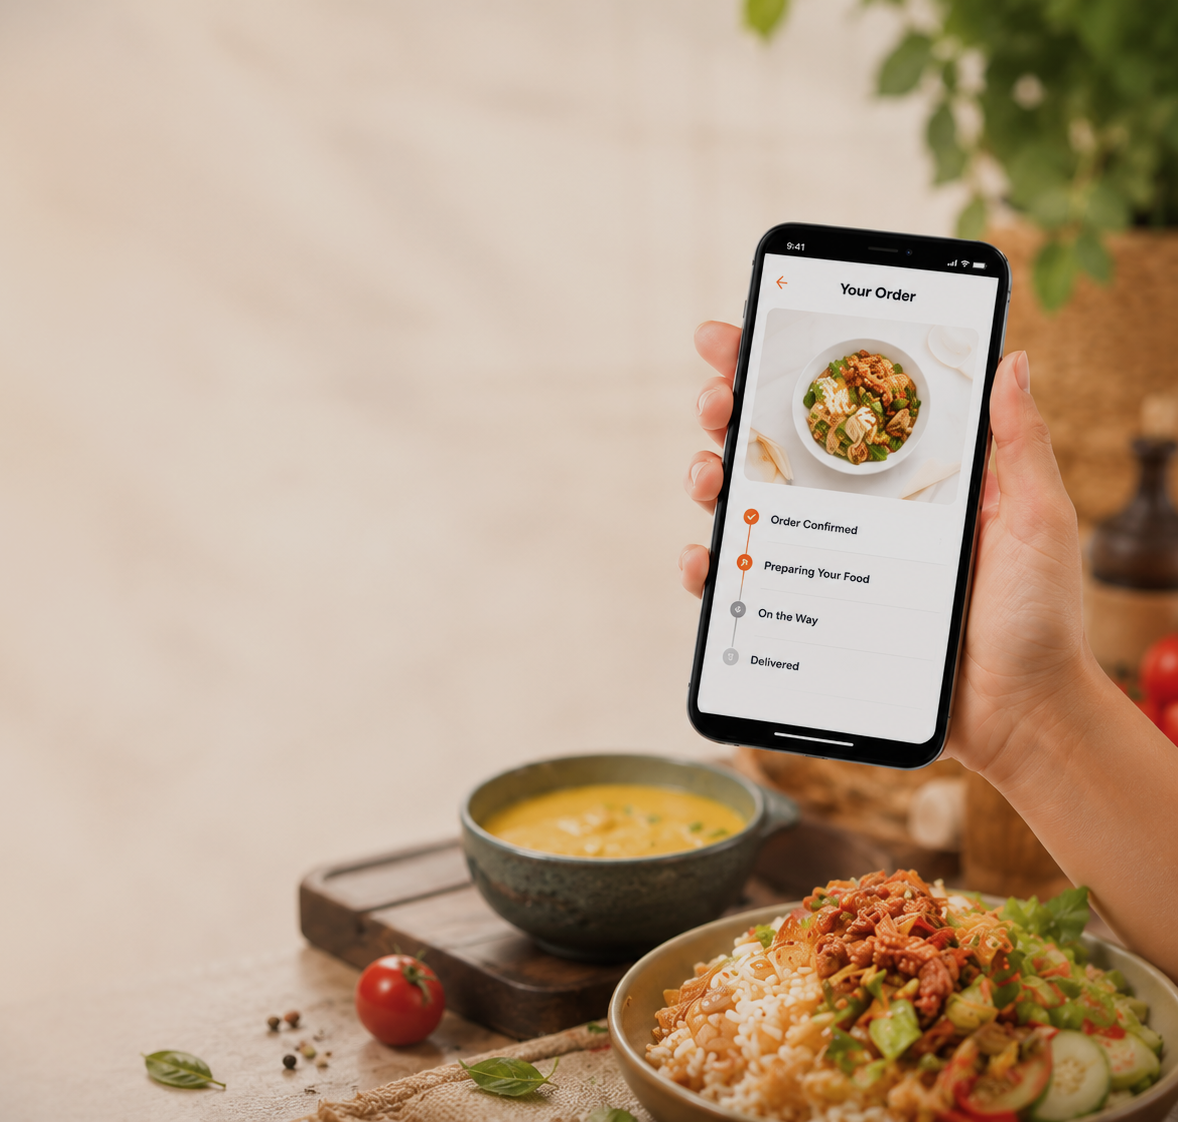
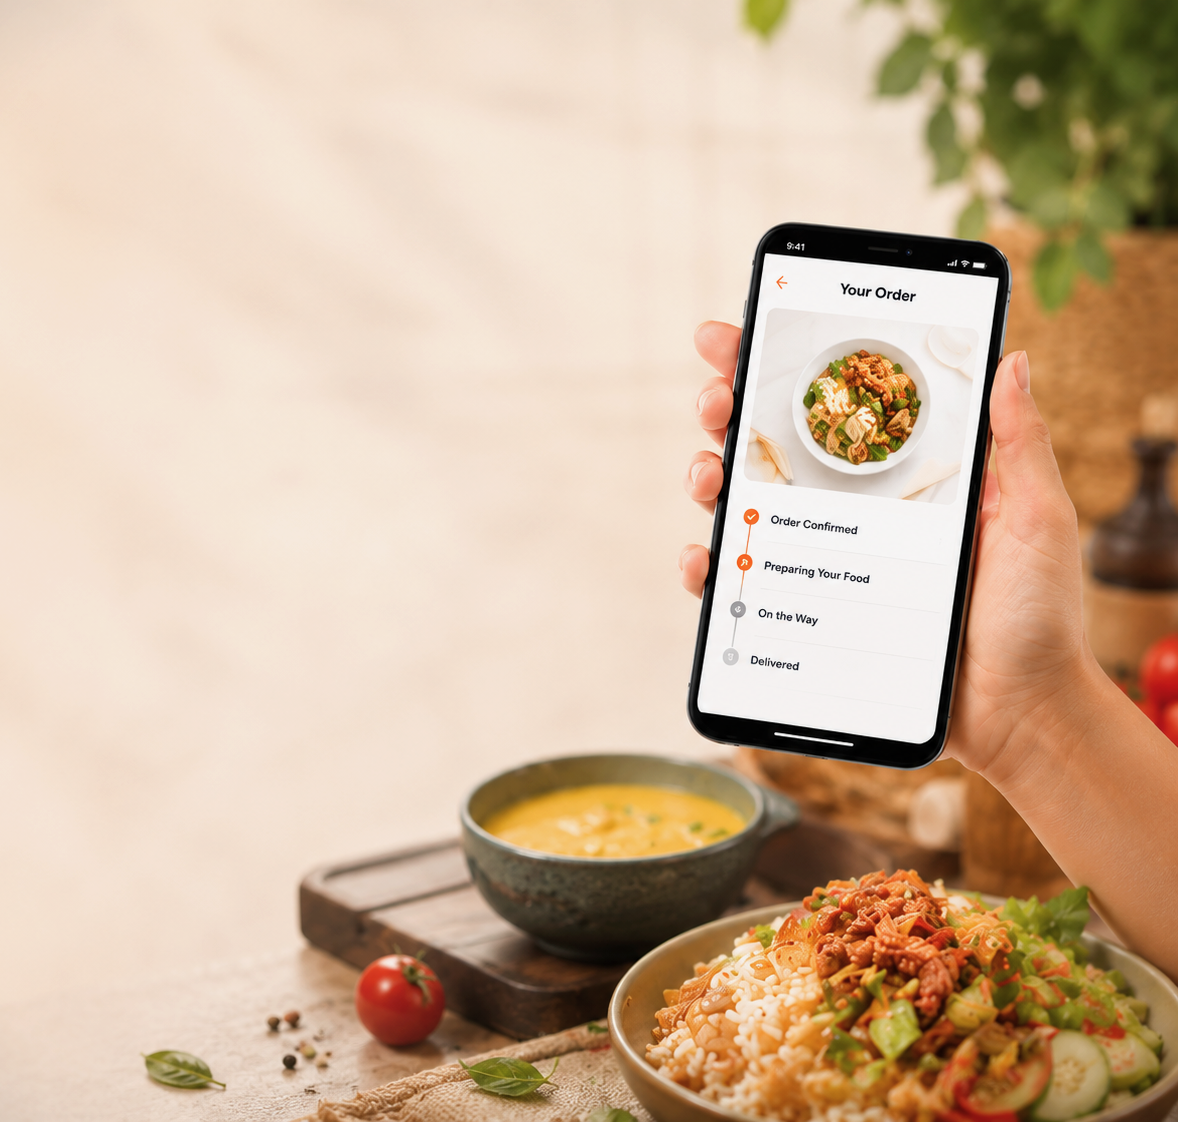
update colors design

diff --git a/frontend/src/features/auth/pages/CustomerRegisterPage.jsx b/frontend/src/features/auth/pages/CustomerRegisterPage.jsx
@@ -56,6 +56,22 @@ function CustomerRegister() {
                             </div>
                         </div>
 
+                        <div className={styles.socialAuth}>
+                            <button className={styles.socialButton}>
+                                <svg width="18" height="18" viewBox="0 0 24 24" xmlns="http://www.w3.org/2000/svg">
+                                    <path d="M22.56 12.25c0-.78-.07-1.53-.2-2.25H12v4.26h5.92c-.26 1.37-1.04 2.53-2.21 3.31v2.77h3.57c2.08-1.92 3.28-4.74 3.28-8.09z" fill="#4285F4" />
+                                    <path d="M12 23c2.97 0 5.46-.98 7.28-2.66l-3.57-2.77c-.98.66-2.23 1.06-3.71 1.06-2.86 0-5.29-1.93-6.16-4.53H2.18v2.84C3.99 20.53 7.7 23 12 23z" fill="#34A853" />
+                                    <path d="M5.84 14.09c-.22-.66-.35-1.36-.35-2.09s.13-1.43.35-2.09V7.07H2.18C1.43 8.55 1 10.22 1 12s.43 3.45 1.18 4.93l2.85-2.22.81-.62z" fill="#FBBC05" />
+                                    <path d="M12 5.38c1.62 0 3.06.56 4.21 1.64l3.15-3.15C17.45 2.09 14.97 1 12 1 7.7 1 3.99 3.47 2.18 7.07l3.66 2.84c.87-2.6 3.3-4.53 6.16-4.53z" fill="#EA4335" />
+                                </svg>
+                                Google
+                            </button>
+                        </div>
+
+                        <div className={styles.divider}>
+                            <span>Or sign up with email</span>
+                        </div>
+
                         <form onSubmit={(e) => e.preventDefault()}>
                             <div className={styles.formGrid}>
 
@@ -85,7 +101,7 @@ function CustomerRegister() {
                                         <svg width="18" height="18" viewBox="0 0 24 24" fill="none" stroke="currentColor" strokeWidth="2" strokeLinecap="round" strokeLinejoin="round" ><path d="M20 10c0 5-8 12-8 12S4 15 4 10a8 8 0 1 1 16 0z"></path><circle cx="12" cy="10" r="3"></circle>
                                         </svg>
                                     </span>
-                                    <input type="email" placeholder="Delivery Address" />
+                                    <input type="text" placeholder="Delivery Address" />
                                 </div>
 
                                 <div className={`${styles.inputGroup} ${styles.fullWidth}`}>

diff --git a/frontend/src/features/auth/pages/CustomerRegisterPage.module.css b/frontend/src/features/auth/pages/CustomerRegisterPage.module.css
@@ -2,7 +2,7 @@
 
 .container {
   min-height: 100vh;
-  background-color: var(--color-surface-active);
+  background-color: var(--color-bg);
   font-family: var(--font-family);
   color: var(--color-text-primary);
   padding: 40px 20px;
@@ -122,6 +122,7 @@
   display: flex;
   background: var(--color-surface);
   border-radius: var(--radius-xl);
+  border: 1px solid var(--color-border);
   box-shadow: var(--shadow-md);
   max-width: 1100px;
   width: 100%;
@@ -145,7 +146,6 @@
   right: -4rem;
   width: 260px;
   opacity: 0.1;
-  /* z-index: 0; */
 }
 
 .formHeader {
@@ -153,6 +153,60 @@
   align-items: center;
   gap: 16px;
   margin-bottom: 30px;
+}
+
+.socialAuth {
+  display: flex;
+  gap: 16px;
+  margin-bottom: 24px;
+}
+
+.socialButton {
+    font-family: var(--font-family);
+    flex: 1;
+    display: flex;
+    align-items: center;
+    justify-content: center;
+    gap: 8px;
+    padding: 10px;
+    background-color: var(--color-surface-hover);
+    border: 1px solid var(--color-border);
+    border-radius: 8px;
+    font-size: var(--font-size-sm);
+    font-weight: var(--font-weight-medium);
+    cursor: pointer;
+    color: var(--color-text-primary);
+    transition: background-color var(--transition-normal);
+}
+
+.socialButton:hover {
+    background-color: var(--color-hover);
+    color: var(--color-text-primary);
+}
+
+.socialButton:active {
+    background-color: var(--color-active);
+}
+
+/* Divider */
+.divider {
+    display: flex;
+    align-items: center;
+    text-align: center;
+    margin-bottom: 24px;
+    color: var(--color-text-muted);
+    font-size: var(--font-size-sm);
+}
+
+.divider::before,
+.divider::after {
+    content: '';
+    flex: 1;
+    border-bottom: 1px solid var(--color-bg-muted);
+}
+
+.divider span {
+    padding: 0 10px;
 }
 
 .userIconWrap {
@@ -315,7 +369,7 @@
   top: 0;
   left: 0;
   width: 100%;
-  height: 100vh;
+  height: 100%;
   background-size: cover;
   object-fit: cover;
   z-index: 0;
